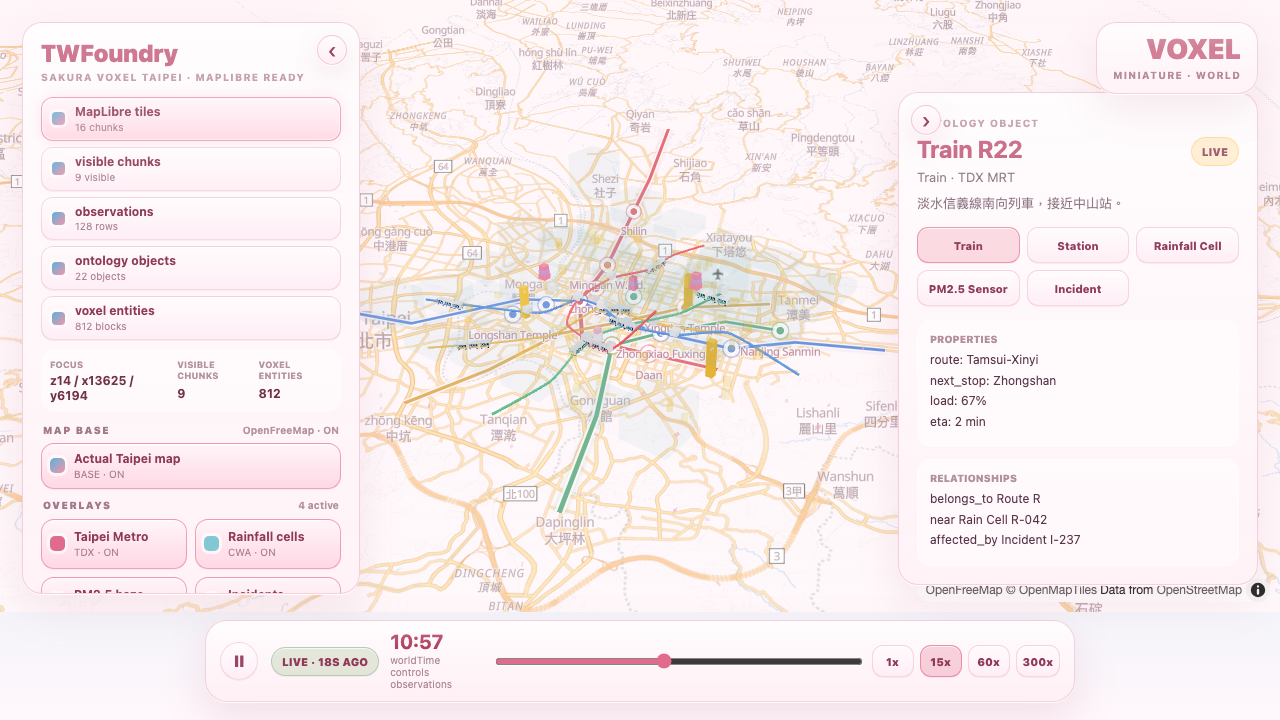
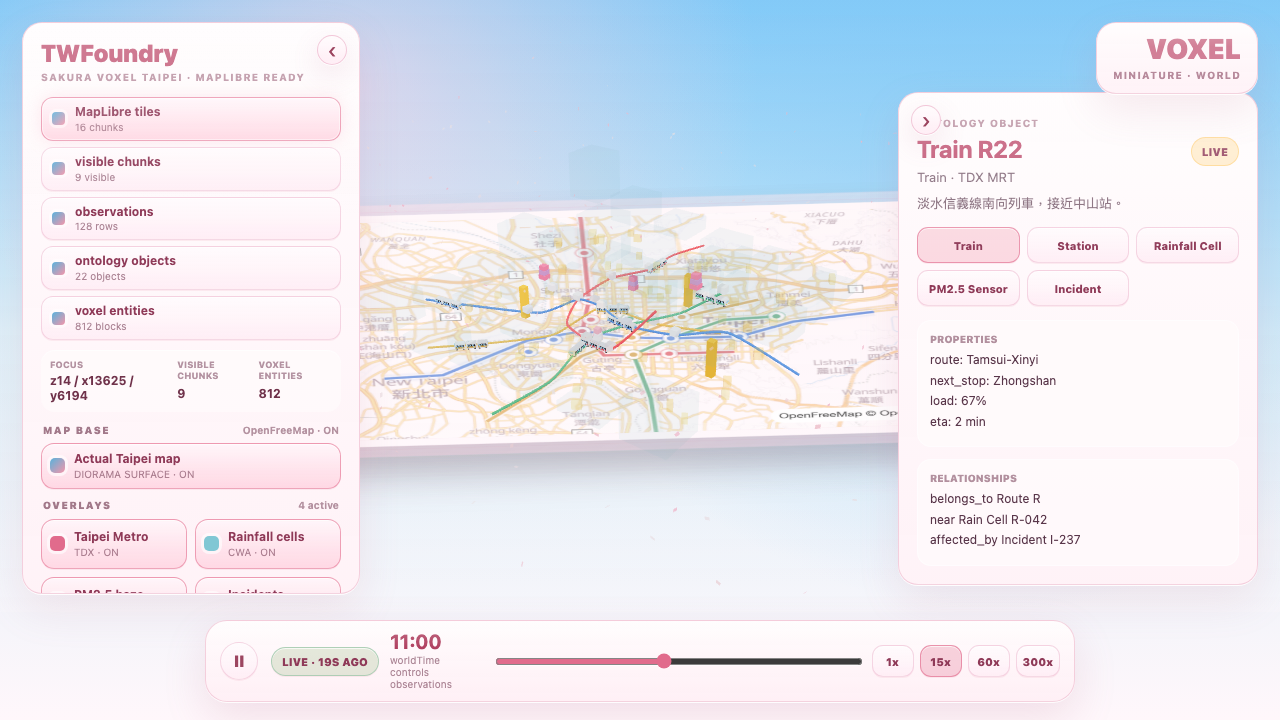
Make map a diorama surface

diff --git a/frontend/src/styles.css b/frontend/src/styles.css
@@ -27,6 +27,7 @@ body {
     radial-gradient(circle at 28% 12%, rgba(255, 214, 228, 0.62), transparent 25rem),
     radial-gradient(circle at 78% 16%, rgba(120, 200, 248, 0.6), transparent 31rem),
     linear-gradient(180deg, #78c8f8 0%, #d8eef8 46%, #fff7fb 100%);
+  perspective: 1400px;
 }
 
 button,
@@ -69,35 +70,84 @@ button {
 
 .maplibre-overlay {
   position: absolute;
-  inset: 0 0 clamp(108px, 14vh, 138px) 0;
+  top: 45%;
+  left: 50%;
+  width: min(76vw, 1120px);
+  height: min(56vh, 620px);
   z-index: 0;
-  overflow: hidden;
-  background: #d8eef8;
+  overflow: visible;
+  background: transparent;
   opacity: 1;
+  transform:
+    translate(-50%, -50%)
+    rotateX(58deg)
+    rotateZ(-3deg)
+    scale(1.08);
+  transform-origin: center;
+  transform-style: preserve-3d;
   transition:
     opacity 220ms ease,
-    filter 220ms ease;
+    filter 220ms ease,
+    transform 220ms ease;
 }
 
 .maplibre-overlay.hidden {
   opacity: 0;
   pointer-events: none;
-  filter: blur(3px);
+  filter: blur(3px) saturate(0.8);
 }
 
 .maplibre-canvas {
   position: absolute;
   inset: 0;
+  overflow: hidden;
+  border: 12px solid rgba(255, 249, 251, 0.78);
+  border-radius: 18px;
+  background: #fff7fa;
+  box-shadow:
+    0 18px 0 rgba(211, 159, 178, 0.28),
+    0 42px 80px rgba(102, 74, 88, 0.2),
+    inset 0 0 0 1px rgba(225, 107, 140, 0.12);
 }
 
 .maplibre-tint {
   position: absolute;
-  inset: 0;
+  inset: 12px;
+  border-radius: 8px;
   pointer-events: none;
   background:
-    radial-gradient(circle at 42% 38%, rgba(255, 223, 232, 0.26), transparent 28rem),
-    linear-gradient(180deg, rgba(255, 246, 250, 0.08), rgba(255, 214, 228, 0.22));
-  mix-blend-mode: soft-light;
+    linear-gradient(135deg, rgba(255, 255, 255, 0.48), transparent 34%),
+    radial-gradient(circle at 42% 38%, rgba(255, 223, 232, 0.2), transparent 28rem),
+    linear-gradient(180deg, rgba(255, 246, 250, 0.08), rgba(255, 214, 228, 0.16));
+  box-shadow: inset 0 0 80px rgba(255, 247, 250, 0.42);
+  mix-blend-mode: screen;
+}
+
+.maplibre-overlay::before,
+.maplibre-overlay::after {
+  position: absolute;
+  pointer-events: none;
+  content: "";
+}
+
+.maplibre-overlay::before {
+  inset: -18px;
+  z-index: -2;
+  border-radius: 24px;
+  background: linear-gradient(135deg, rgba(255, 223, 232, 0.62), rgba(216, 238, 248, 0.42));
+  transform: translateZ(-18px);
+  box-shadow: 0 34px 52px rgba(96, 70, 86, 0.24);
+}
+
+.maplibre-overlay::after {
+  inset: -6px;
+  z-index: -1;
+  border: 1px solid rgba(225, 107, 140, 0.16);
+  border-radius: 22px;
+  background:
+    linear-gradient(90deg, transparent 0 7%, rgba(255, 255, 255, 0.32) 7.2% 7.6%, transparent 7.8% 100%),
+    linear-gradient(0deg, transparent 0 11%, rgba(255, 255, 255, 0.28) 11.2% 11.6%, transparent 11.8% 100%);
+  opacity: 0.54;
 }
 
 .hud {

diff --git a/frontend/src/voxelWorld.js b/frontend/src/voxelWorld.js
@@ -734,12 +734,17 @@ export class VoxelWorld {
 
   setMapBaseVisible(visible) {
     this.mapBaseVisible = visible;
-    if (this.layers.tiles) this.layers.tiles.visible = !visible && this.layerVisibility.tiles;
-    if (this.layers.map) this.layers.map.visible = !visible;
-    if (this.layers.pipeline) this.layers.pipeline.visible = !visible;
+    if (this.layers.tiles) this.layers.tiles.visible = false;
+    if (this.layers.map) this.layers.map.visible = false;
+    if (this.layers.pipeline) this.layers.pipeline.visible = false;
     if (visible) {
       this.scene.background = null;
       this.renderer.setClearColor(0x000000, 0);
+    } else {
+      this.scene.background = new THREE.Color('#FFF7FA');
+      this.scene.fog.color.set('#FFF7FA');
+      this.scene.fog.density = 0.0018;
+      this.renderer.setClearColor('#FFF7FA', 1);
     }
   }
 

diff --git a/frontend/src/MapLibreOverlay.vue b/frontend/src/MapLibreOverlay.vue
@@ -2,7 +2,7 @@
 import { onBeforeUnmount, onMounted, ref, watch } from 'vue';
 import maplibregl from 'maplibre-gl';
 import 'maplibre-gl/dist/maplibre-gl.css';
-import { TAIPEI_MAP_VIEW } from './geoProjection.js';
+import { TAIPEI_DIORAMA_SURFACE_VIEW } from './geoProjection.js';
 import { mrtRouteGeoJson, mrtStationGeoJson } from './mrtMapData.js';
 
 const props = defineProps({
@@ -178,10 +178,10 @@ onMounted(() => {
   map = new maplibregl.Map({
     container: mapEl.value,
     style: 'https://tiles.openfreemap.org/styles/bright',
-    center: TAIPEI_MAP_VIEW.center,
-    zoom: TAIPEI_MAP_VIEW.zoom,
-    pitch: TAIPEI_MAP_VIEW.pitch,
-    bearing: TAIPEI_MAP_VIEW.bearing,
+    center: TAIPEI_DIORAMA_SURFACE_VIEW.center,
+    zoom: TAIPEI_DIORAMA_SURFACE_VIEW.zoom,
+    pitch: TAIPEI_DIORAMA_SURFACE_VIEW.pitch,
+    bearing: TAIPEI_DIORAMA_SURFACE_VIEW.bearing,
     attributionControl: false,
     interactive: false,
   });

diff --git a/frontend/src/geoProjection.js b/frontend/src/geoProjection.js
@@ -11,6 +11,13 @@ export const TAIPEI_MAP_VIEW = {
   bearing: -17,
 };
 
+export const TAIPEI_DIORAMA_SURFACE_VIEW = {
+  ...TAIPEI_MAP_VIEW,
+  zoom: 11.05,
+  pitch: 0,
+  bearing: 0,
+};
+
 export function lngLatToGrid([lng, lat], gridSize = 30) {
   const { west, south, east, north } = TAIPEI_MAP_VIEW.bounds;
   const x = ((lng - west) / (east - west)) * (gridSize - 1);

diff --git a/frontend/src/App.vue b/frontend/src/App.vue
@@ -129,7 +129,7 @@ onBeforeUnmount(() => {
     <div
       ref="worldEl"
       class="world-stage"
-      :class="{ 'map-backed': mapBaseVisible }"
+      :class="{ 'map-backed': effectiveMapVisible }"
       aria-label="Sakura voxel Taipei 3D scene"
     ></div>
 
@@ -217,7 +217,7 @@ onBeforeUnmount(() => {
         <span class="layer-swatch map-swatch"></span>
         <span class="layer-main">
           <strong>Actual Taipei map</strong>
-          <small>BASE · {{ mapBaseVisible ? 'ON' : 'OFF' }}</small>
+          <small>DIORAMA SURFACE · {{ mapBaseVisible ? 'ON' : 'OFF' }}</small>
         </span>
       </button>
 